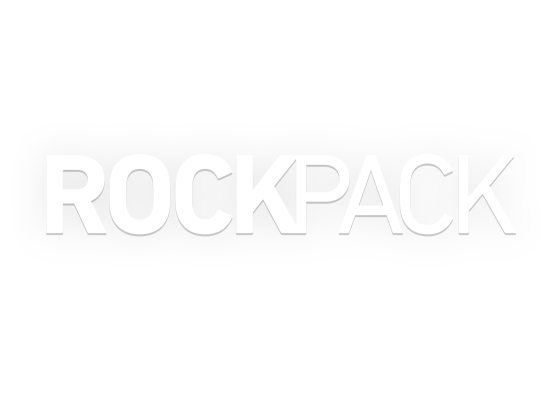
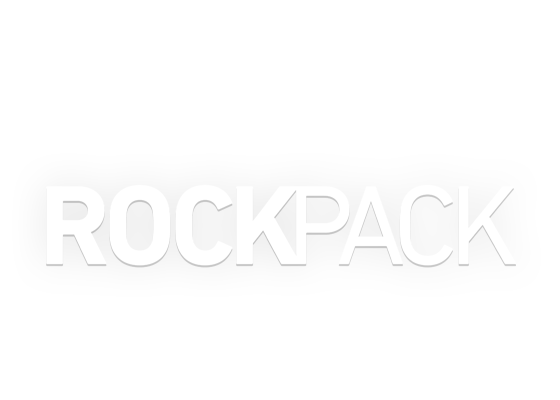
PreLogin on boarding

diff --git a/RockPack/SYNLoginOnBoardingController.m b/RockPack/SYNLoginOnBoardingController.m
@@ -108,11 +108,11 @@
         messageText = NSLocalizedString(localisedKey, localisedDefault);    
         
         messageView = [self createNewMessageViewWithMessage:messageText
-                                                   andTitle:titleText];
+                                                   andTitle:titleText
+                                              andCardNumber:[NSString stringWithFormat:@"%i",i]];
         
         messageViewCenter = messageView.center;
         messageViewCenter.x = (i + 0.5) * self.scrollView.frame.size.width;
-        //messageView.center = messageViewCenter;
         
         CGRect integralFrame = CGRectIntegral(messageView.frame);
         
@@ -121,30 +121,22 @@
         CGRect iPhoneMessageRect = CGRectMake((self.view.frame.size.width * 0.5) - (integralFrame.size.width * 0.5), self.view.frame.size.height - 300, integralFrame.size.width, integralFrame.size.height);
         
         messageView.frame = IS_IPAD ? iPadMessageRect : iPhoneMessageRect;
-        
-        
-//        //Get the Image
-//        UIImage * messageImage;
-//        messageImage = [UIImage imageNamed: [NSString stringWithFormat:@"login_onboard_%i", i+1]];
-        
-        //Image Frame
-        CGRect iPadImageRect = CGRectMake((messageView.frame.size.width * 0.5) - 140, messageView.frame.origin.y - 200, 280, 200);
-        CGRect iPhoneImageRect = CGRectMake((messageView.frame.size.width * 0.5) - 140, messageView.frame.origin.y - 220, 280, 200);
-        
-        UIImageView * messageImageView = [[UIImageView alloc]initWithFrame: IS_IPAD ? iPadImageRect : iPhoneImageRect];
-        
+                
+        // Only add Image to first Card
         if (i == 0)
         {
-            messageImageView.image = [UIImage imageNamed: [NSString stringWithFormat:@"login_onboard_%i.png", i+1]];
+            //Image Frame
+            CGRect iPadImageRect = CGRectMake((messageView.frame.size.width * 0.5) - 140, messageView.frame.origin.y - 210, 280, 200);
+            CGRect iPhoneImageRect = CGRectMake((messageView.frame.size.width * 0.5) - 140, messageView.frame.origin.y - 220, 280, 200);
+            
+            UIImageView * messageImageView = [[UIImageView alloc]initWithFrame: IS_IPAD ? iPadImageRect : iPhoneImageRect];
+            
+            messageImageView.image = [UIImage imageNamed: [NSString stringWithFormat:@"login_onboard_1.png"]];
+            [messageView addSubview:messageImageView];
         }
         
-        else
-        {
-        messageImageView.image = [UIImage imageNamed: [NSString stringWithFormat:@"login_onboard_%i.jpg", i+1]];
-        }
 
         [self.scrollView addSubview:messageView];
-        [messageView addSubview:messageImageView];
         
         totalScrollSize.width += self.scrollView.frame.size.width;
     }
@@ -158,42 +150,44 @@
     self.pageControl.userInteractionEnabled = NO; // dont block the screen
     self.pageControl.autoresizingMask = UIViewAutoresizingFlexibleLeftMargin | UIViewAutoresizingFlexibleRightMargin;
     
+    //Tappable Dots
+    self.pageControl.userInteractionEnabled = YES;
+    [self.pageControl addTarget:self action:@selector(pageTurn:) forControlEvents:UIControlEventValueChanged];
+
+    
     [self.view addSubview:self.pageControl];
 }
 
 
 - (UIView*) createNewMessageViewWithMessage: (NSString*) message
                                    andTitle: (NSString*)title
+                              andCardNumber: (NSString*)cardNumber
 {
     CGRect newFrame = CGRectZero;
     
     
     // Limit label width to fit on portrait iPad, or iPhone screen
-    newFrame.size.width = IS_IPHONE ? 300.0f: 728.0f;
+    newFrame.size.width = IS_IPHONE ? 290.0f: 578.0f;
     newFrame.size.height = 0.0f;
     
     UIView* container = [[UIView alloc] initWithFrame:newFrame];
     
     // Title label, Offset from the top of the scroll view;
-    newFrame.origin.y = IS_IPHONE ? 205.0f : 170.0f;
-    
-    UIColor* shadowColor = [UIColor colorWithWhite:0.0f alpha:0.3f];
-    
+    //newFrame.origin.y = IS_IPHONE ? 205.0f : 170.0f;
+    newFrame.origin.y = IS_IPHONE ? 70.0f : 30.0f;
+
     
     UILabel* titleLabel = [[UILabel alloc] initWithFrame:newFrame];
     if(title)
     {
         
-        UIFont* fontTitleToUse = [UIFont boldRockpackFontOfSize: IS_IPHONE ? 19.0f : 28.0f];
+        UIFont* fontTitleToUse = [UIFont boldRockpackFontOfSize: IS_IPHONE ? 25.0f : 28.0f];
         titleLabel.font = fontTitleToUse;
         titleLabel.numberOfLines = 0;
         titleLabel.textAlignment = NSTextAlignmentCenter;
         titleLabel.text = title;
         titleLabel.backgroundColor = [UIColor clearColor];
         titleLabel.textColor = [UIColor whiteColor];
-        
-        titleLabel.shadowOffset = CGSizeMake(0.0, 1.0);
-        titleLabel.shadowColor = shadowColor;
         
         [titleLabel sizeToFit];
         // add the newly created height to the frame
@@ -203,22 +197,39 @@
     }
     
     //Text label, laid out under title, if there is one
-    
     newFrame.origin.y += newFrame.size.height;
     
     UILabel* textLabel = [[UILabel alloc] initWithFrame:newFrame];
-    UIFont* fontToUse = [UIFont rockpackFontOfSize:  IS_IPHONE ? 16.0f : 22.0f];
-    textLabel.font = fontToUse;
-    textLabel.numberOfLines =0;
-    textLabel.textAlignment = NSTextAlignmentCenter;
-    textLabel.text = message;
-    textLabel.backgroundColor = [UIColor clearColor];
-    textLabel.textColor = [UIColor colorWithRed:40.0/255.0 green:45.0/255.0 blue:51.0/255.0 alpha:1.0];
-    textLabel.shadowColor = [UIColor whiteColor];
-    textLabel.shadowOffset = CGSizeMake(0.0, 1.0);
-    [textLabel sizeToFit];
-    [container addSubview:textLabel];
+    if (message)
+    {
+        UIFont* fontToUse = [UIFont rockpackFontOfSize:  IS_IPHONE ? 16.0f : 22.0f];
+        textLabel.font = fontToUse;
+        textLabel.numberOfLines =0;
+        textLabel.textAlignment = NSTextAlignmentCenter;
+        textLabel.text = message;
+        textLabel.backgroundColor = [UIColor clearColor];
+        textLabel.textColor = [UIColor colorWithRed:255.0f/255.0f green:255.0f/255.0f blue:255.0f/255.0f alpha:1.0f];
+        [textLabel sizeToFit];
+        [container addSubview:textLabel];
+    }
 
+    
+    UIView * labelSeperatorView;
+    
+    //Different Setup for text on First Card
+    if ([cardNumber isEqual:@"0"]) {
+        textLabel.frame = CGRectMake(textLabel.frame.origin.x, IS_IPHONE ? textLabel.frame.origin.y + 0.0f : textLabel.frame.origin.y, textLabel.frame.size.width, textLabel.frame.size.height);
+
+    }
+    
+    //Don't show seperator on First card
+    else if (![cardNumber isEqual:@"0"])
+    {
+        labelSeperatorView =[[UIView alloc] initWithFrame:IS_IPHONE ? CGRectMake(newFrame.origin.x, newFrame.origin.y + 4.0f, 70.0f, 2.0f) : CGRectMake(newFrame.origin.x, newFrame.origin.y + 9.0f, 70.0f, 2.0f) ];
+        labelSeperatorView.backgroundColor = [UIColor whiteColor];
+        [container addSubview:labelSeperatorView];
+    }
+    
     
     // Resize the container to match the label heights
     newFrame = container.frame;
@@ -233,10 +244,44 @@
     center = titleLabel.center;
     center.x = container.center.x;
     titleLabel.center = center;
-
+    
+    //Center the Seperator Line
+    center = labelSeperatorView.center;
+    center.x = container.center.x;
+    labelSeperatorView.center = center;
+    
     return container;
     
     
+}
+
+- (void) pageTurn: (UIPageControl *) aPageControl
+{
+    int whichPage = aPageControl.currentPage;
+    
+    [UIView animateWithDuration:0.3f
+                          delay:0.0
+                        options:UIViewAnimationCurveEaseInOut
+                     animations:^{
+                         if (IS_IPHONE)
+                         {
+                             self.scrollView.contentOffset = CGPointMake(320.0f * whichPage, 0.0f);
+                         }
+                         
+                         else
+                         {
+                             if ([[SYNDeviceManager sharedInstance] isLandscape])
+                             {
+                                 self.scrollView.contentOffset = CGPointMake(1024.0f * whichPage, 0.0f);
+                             }
+                             
+                             else
+                             {
+                                 self.scrollView.contentOffset = CGPointMake(768.0f * whichPage, 0.0f);
+                             }
+                         }
+                     }
+                     completion:nil];
 }
 
 - (void)observeValueForKeyPath:(NSString *)keyPath ofObject:(id)object change:(NSDictionary *)change context:(void *)context {
@@ -269,6 +314,7 @@
     CGPoint newCOffset = CGPointMake(self.pageControl.currentPage * self.scrollView.frame.size.width, self.scrollView.contentOffset.y);
     
     [self.scrollView setContentOffset: newCOffset];
+    
 }
 
 

diff --git a/RockPack/SYNLoginBaseViewController.m b/RockPack/SYNLoginBaseViewController.m
@@ -79,8 +79,8 @@
     NSMutableArray* imagesArray = [[NSMutableArray alloc] initWithCapacity:kLoginOnBoardingMessagesNum];
     for (int i = 0; i < kLoginOnBoardingMessagesNum; i++)
     {
-        [imagesArray addObject: [NSString stringWithFormat: @"login_bg_%i.jpg", (i+1)]];
-        
+        //[imagesArray addObject: [NSString stringWithFormat: @"login_bg_%i.jpg", (i+1)]];
+        [imagesArray addObject: [NSString stringWithFormat: @"login_bg_1.jpg"]]; //Only 1 image for now...
     }
     self.backgroundImagesArray = [NSArray arrayWithArray: imagesArray];
 }
@@ -91,7 +91,7 @@
     [super viewDidLoad];
     
     self.onBoardingController = [[SYNLoginOnBoardingController alloc] initWithDelegate: self];
-            
+    
     CGRect totalImageRect;
     
     CGPoint correctPoint;
@@ -110,10 +110,12 @@
     self.loginBackgroundImage.frame = totalImageRect;
     self.loginBackgroundFrontImage.frame = totalImageRect;
     
-    if (IS_IPHONE)
-    {
-        correctPoint.y = IS_IPHONE_5 ? 280.0 : 240.0;
-    }
+    self.backgroundImageView = [[UIImageView alloc]initWithImage:[UIImage imageNamed:@"login_bg_1.jpg"]];
+    self.backgroundImageView.contentMode = UIViewContentModeScaleAspectFill;
+    self.backgroundImageView.frame = totalImageRect;
+    
+    [self.view insertSubview:self.backgroundImageView atIndex:0];
+
     self.loginBackgroundImage.center = correctPoint;
     self.loginBackgroundFrontImage.center = correctPoint;
     
@@ -121,7 +123,7 @@
     
     
     self.loginBackgroundImage.image = [UIImage imageNamed:self.backgroundImagesArray[0]]; // get the first image
-    
+        
     // localise date format for US and UK
     
     NSString* localeFromDevice = [(NSString*)CFBridgingRelease(CFLocaleCreateCanonicalLanguageIdentifierFromString(NULL, (CFStringRef)[NSLocale.autoupdatingCurrentLocale objectForKey: NSLocaleIdentifier])) lowercaseString];
@@ -329,17 +331,29 @@
                      } completion:^(BOOL finished) {
                          self.onBoardingController.view.hidden = YES;
                      }];
+    
+    //Hide backgroundImageView when Reg or Login buttons are Pressed
+    self.backgroundImageView.alpha = 0.0f;
+    self.backgroundImageView.hidden = YES;
+    
 }
 
 - (void) showOnboarding
 {
+    self.backgroundImageView.hidden = NO;
+    
+    //Show backgroundImageView when back button is Pressed
     self.onBoardingController.view.hidden = NO;
+    
     [UIView animateWithDuration: 0.3f
                           delay: 0.1f
                         options: UIViewAnimationOptionCurveEaseOut
                      animations: ^{
                          self.onBoardingController.view.alpha = 1.0;
+                         self.backgroundImageView.alpha = 1.0f;
                      } completion: nil];
+    
+    
 }
 
 #pragma mark - login facebook

diff --git a/RockPack/SYNLoginViewController.m b/RockPack/SYNLoginViewController.m
@@ -232,6 +232,7 @@
                      } completion:^(BOOL finished) {
                          self.pageViewController.view.hidden = TRUE;
                      }];
+    self.backgroundImageView.hidden = YES;
 }
 
 - (void) showOnboarding
@@ -244,6 +245,8 @@
                      animations: ^{
                          self.pageViewController.view.alpha = 1.0f;
                      } completion: nil];
+    
+    self.backgroundImageView.hidden = NO;
 }
 
 

diff --git a/RockPack/SYNLoginBaseViewController.h b/RockPack/SYNLoginBaseViewController.h
@@ -44,6 +44,8 @@ typedef enum {
 @property (nonatomic, strong) SYNLoginOnBoardingController* onBoardingController;
 @property (nonatomic, strong) SYNNetworkErrorView* networkErrorView;
 @property (nonatomic,assign) SYNAppDelegate* appDelegate;
+@property (nonatomic, strong) UIImageView * backgroundImageView;
+
 
 - (BOOL) checkAndSaveRegisteredUser: (SYNOAuth2Credential*) credential;
 
